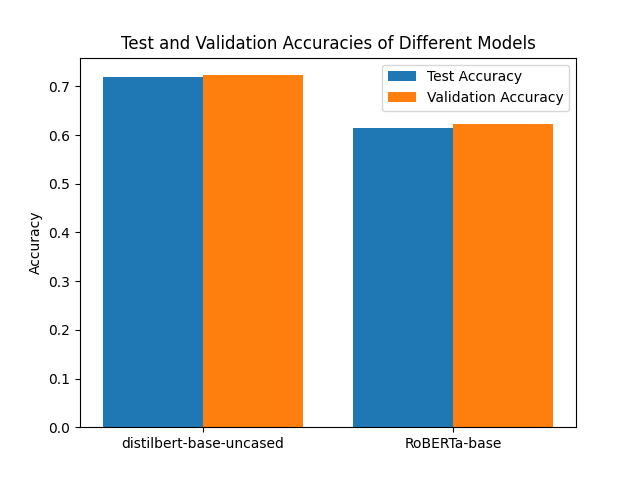
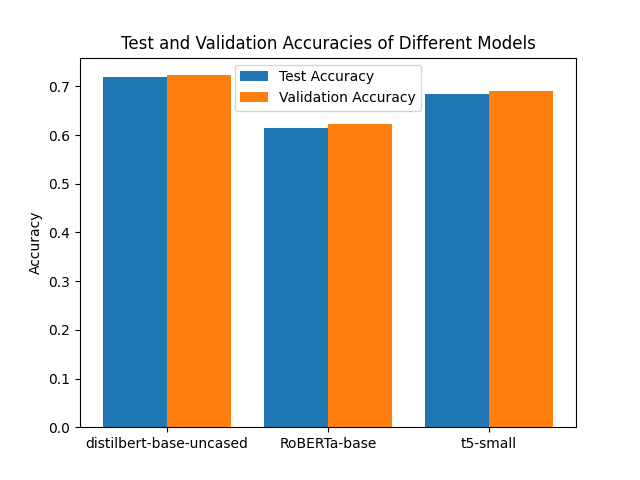
final update

diff --git a/classification.py b/classification.py
@@ -187,8 +187,8 @@ def train(mymodel, num_epochs, train_dataloader, validation_dataloader, device, 
 # implements parameter selection and returns a list with (learning rate, epochs, validation accuracy, test accuracy)
 def train2(mymodel, train_dataloader, validation_dataloader, device):
 
-    learning_rates = [1e-4, 1e-3]
-    num_epochs_list = [7, 9]
+    learning_rates = [1e-4, 5e-4, 1e-3]
+    num_epochs_list = [5, 7, 9]
 
     results = []
 
@@ -275,6 +275,63 @@ def train2(mymodel, train_dataloader, validation_dataloader, device):
 
     return results
 
+# for t5 models
+def train3(mymodel, num_epochs, train_dataloader, validation_dataloader, device, lr):
+    optimizer = None  # T5 uses a different optimizer
+    lr_scheduler = None  # T5 uses a different scheduler
+    loss = torch.nn.functional.cross_entropy  # use cross-entropy loss
+
+    train_acc_list = []  # to store training accuracies for each epoch
+    val_acc_list = []
+
+    for epoch in range(num_epochs):
+        # put the model in training mode
+        mymodel.train()
+
+        # load metrics
+        train_accuracy = evaluate.load('accuracy')
+
+        print(f"Epoch {epoch + 1} training:")
+
+        for i, batch in enumerate(train_dataloader):
+            input_ids = batch['input_ids'].to(device)
+            attention_mask = batch['attention_mask'].to(device)
+            labels = batch['labels'].to(device)
+
+            # forward pass
+            outputs = mymodel(input_ids=input_ids, attention_mask=attention_mask, labels=labels)
+            loss_value = outputs.loss
+
+            # backward pass
+            loss_value.backward()
+
+            # update the model parameters
+            optimizer.step()
+
+            # zero the gradients for the next iteration
+            optimizer.zero_grad()
+
+            # get predictions
+            logits = outputs.logits
+            predictions = torch.argmax(logits, dim=1)
+
+            # update metrics
+            train_accuracy.add_batch(predictions=predictions, references=labels)
+
+        # print evaluation metrics
+        print(f" ===> Epoch {epoch + 1}")
+
+        train_acc = train_accuracy.compute()['accuracy']
+        print(f" - Average training metrics: accuracy={train_acc}")
+        train_acc_list.append(train_acc)
+
+        val_accuracy = evaluate_model(mymodel, validation_dataloader, device)
+        print(f" - Average validation metrics: accuracy={val_accuracy}")
+        val_acc_list.append(val_accuracy['accuracy'])
+
+    return train_acc_list, val_acc_list
+
+
 def pre_process(model_name, batch_size, device, small_subset):
     # download dataset
     print("Loading the dataset ...")
@@ -342,9 +399,10 @@ def pre_process(model_name, batch_size, device, small_subset):
     pretrained_model.to(device)
     return pretrained_model, train_dataloader, validation_dataloader, test_dataloader
 
-
+# Problem 7, train2 for parameter selection
 # the entry point of the program
 if __name__ == "__main__":
+    
     parser = argparse.ArgumentParser()
     parser.add_argument("--experiment", type=str, default=None)
     parser.add_argument("--small_subset", action='store_true')
@@ -386,6 +444,9 @@ if __name__ == "__main__":
     # Problem 7 results
     print(result)
 
+    
+
+# Problem 8
 # if __name__ == "__main__":
 #     parser = argparse.ArgumentParser()
 #     parser.add_argument("--experiment", type=str, default=None)
@@ -441,3 +502,67 @@ if __name__ == "__main__":
 #     # save the plot and show it
 #     plt.savefig('test_validation_accuracies.png')
 #     plt.show()
+
+# Problem 9
+# if __name__ == "__main__":
+#     parser = argparse.ArgumentParser()
+#     parser.add_argument("--experiment", type=str, default=None)
+#     parser.add_argument("--small_subset", action='store_true')
+#     parser.add_argument("--num_epochs", type=int, default=1)
+#     parser.add_argument("--lr", type=float, default=5e-5)
+#     parser.add_argument("--batch_size", type=int, default=32)
+#     parser.add_argument("--device", type=str, default="cuda")
+#     parser.add_argument("--model", type=str, default="distilbert-base-uncased")
+#     args = parser.parse_args()
+#     print(f"Specified arguments: {args}")
+
+#     assert type(args.small_subset) == bool, "small_subset must be a boolean"
+
+#     # load the data and models
+#     pretrained_model, train_dataloader, validation_dataloader, test_dataloader = pre_process(args.model,
+#                                                                                              args.batch_size,
+#                                                                                              args.device,
+#                                                                                              args.small_subset)
+
+#     optimizer = torch.optim.AdamW(pretrained_model.parameters(), lr=args.lr)
+#     scheduler = get_scheduler("linear", optimizer=optimizer, num_warmup_steps=50,
+#                               num_training_steps=len(train_dataloader) * args.num_epochs)
+#     train_acc_list, val_acc_list = train(pretrained_model, args.num_epochs, train_dataloader, validation_dataloader,
+#                                          args.device, args.lr, optimizer, scheduler)
+
+#     val_accuracy = evaluate_model(pretrained_model, validation_dataloader, args.device)
+#     print(f" - Average DEV metrics: accuracy={val_accuracy}")
+
+#     test_accuracy = evaluate_model(pretrained_model, test_dataloader, args.device)
+#     print(f" - Average TEST metrics: accuracy={test_accuracy}")
+
+#     print("(learning rate, epochs, validation accuracy, test accuracy)")
+
+#     # create a dictionary of results
+#     result = {'model': args.model, 'lr': args.lr, 'epochs': args.num_epochs, 'val_accuracy': val_accuracy['accuracy'],
+#               'test_accuracy': test_accuracy['accuracy']}
+    
+#  
+#     print(result)
+# plot everything together
+# models = ['distilbert-base-uncased', 'RoBERTa-base', 't5-small']
+# val_accuracies = [0.7229, 0.6217, 0.6903]
+# test_accuracies = [0.7182, 0.6152, 0.6835]
+
+# fig, ax = plt.subplots()
+# bar_width = 0.4
+
+# x_pos = list(range(len(models)))
+# ax.bar(x_pos, test_accuracies, bar_width, label='Test Accuracy')
+# ax.bar([i + bar_width for i in x_pos], val_accuracies, bar_width, label='Validation Accuracy')
+
+# # add labels and title
+# ax.set_ylabel('Accuracy')
+# ax.set_title('Test and Validation Accuracies of Different Models')
+# ax.set_xticks([i + bar_width / 2 for i in x_pos])
+# ax.set_xticklabels(models)
+# ax.legend()
+
+# # save the plot and show it
+# plt.savefig('test_validation_accuracies.png')
+# plt.show()      
